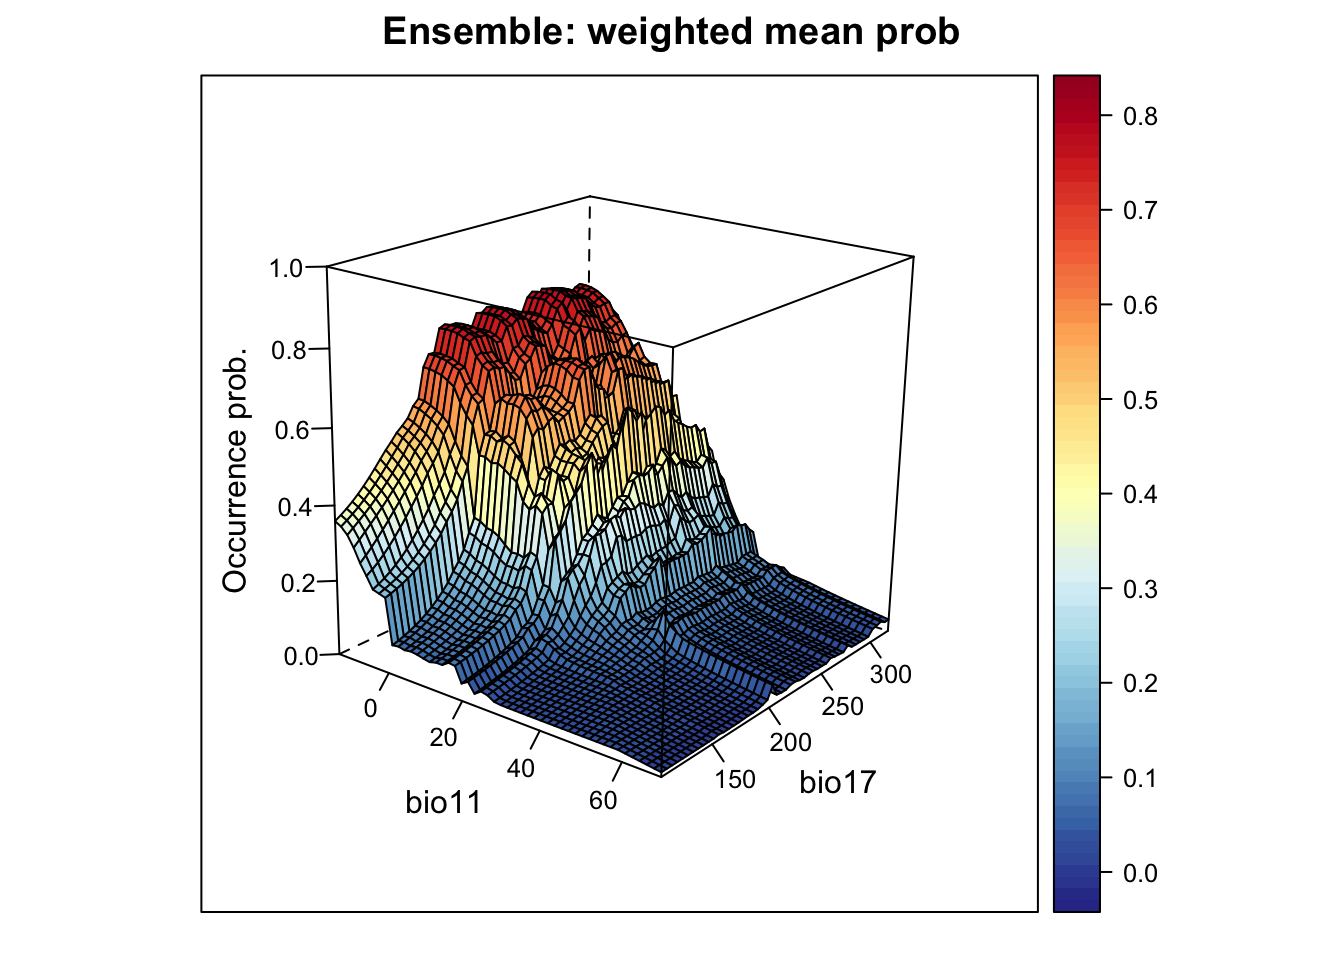
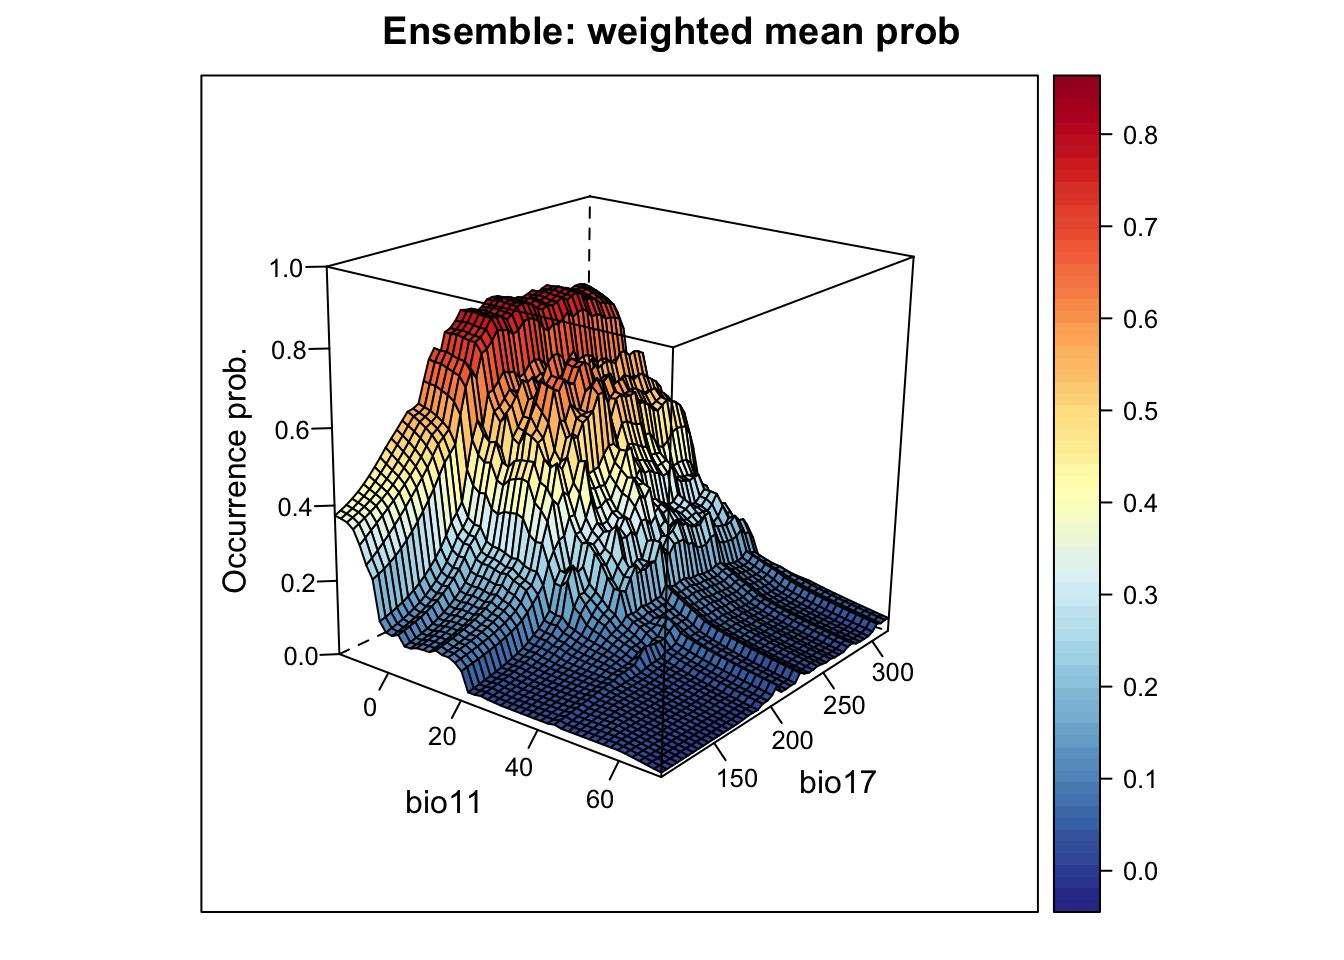
update pray 6

diff --git a/6_SDM_ensembles.html b/6_SDM_ensembles.html
@@ -622,15 +622,14 @@ calc.eval &lt;- function(dat, colname_species, preds, thresh_method=&#39;MaxSens
     require(PresenceAbsence)
     require(dismo)  
     
-    # Helper functions - we had defined them before in &quot;SDM_functions.r&quot;. However,
-    # if we want this code to be independent, we have to insert the functions here again.
-    # True Skill Statistic:
+    # Helper functions.
+    ## True Skill Statistic:
     TSS = function(cmx){
         PresenceAbsence::sensitivity(cmx, st.dev=F) + 
         PresenceAbsence::specificity(cmx, st.dev=F) - 1
         }
     
-    # Explained deviance:
+    ## Explained deviance - the function calc.deviance() is taken from the dismo package:
     d.square &lt;- function(obs, pred, family=&#39;binomial&#39;){
         pred &lt;- ifelse(pred&lt;.00001,.00001,ifelse(pred&gt;.9999,.9999,pred))
       
@@ -645,13 +644,13 @@ calc.eval &lt;- function(dat, colname_species, preds, thresh_method=&#39;MaxSens
         obs = dat[, colname_species],
         pred = preds)
         
-    # Find optimal threshold
+    # Find optimal threshold using the package PresenceAbsence
     thresh &lt;- optimal.thresholds(DATA= thresh_dat)
     
     # Prepare confusion matrix
     cmx_maxSSS &lt;- cmx(DATA= thresh_dat, threshold=thresh[thresh$Method==thresh_method,2])
     
-    # Output data frame with performance statistics and optimal threshold:
+    # Generate output data frame with performance statistics and optimal threshold:
     data.frame(AUC = PresenceAbsence::auc(thresh_dat, st.dev=F),
         TSS = TSS(cmx_maxSSS), 
         Sens = PresenceAbsence::sensitivity(cmx_maxSSS, st.dev=F),
@@ -671,44 +670,44 @@ train_preds &lt;- sapply(our_models,   FUN=function(m){make.preds(eval(parse(tex
 train_perf &lt;- data.frame(sapply(our_models,     FUN=function(x){calc.eval(sp_thinned, &#39;Turdus_torquatus&#39;, train_preds[,x])}))
 
 summary(train_preds)</code></pre>
-<pre><code>##       m_bc             m_dom             m_glm         
-##  Min.   :0.00000   Min.   :0.08658   Min.   :0.000839  
-##  1st Qu.:0.00000   1st Qu.:0.45914   1st Qu.:0.009624  
-##  Median :0.02667   Median :0.57340   Median :0.042567  
-##  Mean   :0.13493   Mean   :0.57015   Mean   :0.134409  
-##  3rd Qu.:0.18667   3rd Qu.:0.69343   3rd Qu.:0.166708  
-##  Max.   :0.93333   Max.   :0.79918   Max.   :0.934014  
+<pre><code>##       m_bc             m_dom             m_glm          
+##  Min.   :0.00000   Min.   :0.07513   Min.   :0.0005874  
+##  1st Qu.:0.00000   1st Qu.:0.44994   1st Qu.:0.0082396  
+##  Median :0.02703   Median :0.56788   Median :0.0378043  
+##  Mean   :0.13870   Mean   :0.56397   Mean   :0.1302817  
+##  3rd Qu.:0.18919   3rd Qu.:0.68547   3rd Qu.:0.1756485  
+##  Max.   :0.95946   Max.   :0.79613   Max.   :0.9303214  
 ##      m_gam               m_cart             m_rf            m_brt        
-##  Min.   :0.0001229   Min.   :0.01254   Min.   :0.0000   Min.   :0.02521  
-##  1st Qu.:0.0040391   1st Qu.:0.01254   1st Qu.:0.0000   1st Qu.:0.02521  
-##  Median :0.0370343   Median :0.01254   Median :0.0040   Median :0.04276  
-##  Mean   :0.1344086   Mean   :0.13441   Mean   :0.1339   Mean   :0.13462  
-##  3rd Qu.:0.1872089   3rd Qu.:0.23944   3rd Qu.:0.1180   3rd Qu.:0.15411  
-##  Max.   :0.9346471   Max.   :0.90000   Max.   :0.9700   Max.   :0.69334  
+##  Min.   :0.0001673   Min.   :0.01198   Min.   :0.0000   Min.   :0.02433  
+##  1st Qu.:0.0043023   1st Qu.:0.01198   1st Qu.:0.0000   1st Qu.:0.02441  
+##  Median :0.0334211   Median :0.01198   Median :0.0060   Median :0.03718  
+##  Mean   :0.1302817   Mean   :0.13028   Mean   :0.1291   Mean   :0.13019  
+##  3rd Qu.:0.1864933   3rd Qu.:0.22222   3rd Qu.:0.0940   3rd Qu.:0.14672  
+##  Max.   :0.9471463   Max.   :1.00000   Max.   :0.9770   Max.   :0.73167  
 ##     m_maxent        
-##  Min.   :0.0003578  
-##  1st Qu.:0.0096631  
-##  Median :0.0751158  
-##  Mean   :0.1991466  
-##  3rd Qu.:0.3332930  
-##  Max.   :0.9998280</code></pre>
+##  Min.   :0.0004054  
+##  1st Qu.:0.0107353  
+##  Median :0.0710889  
+##  Mean   :0.2048733  
+##  3rd Qu.:0.3566196  
+##  Max.   :0.9999931</code></pre>
 <pre class="r"><code>train_perf</code></pre>
 <pre><code>##             m_bc     m_dom     m_glm     m_gam    m_cart      m_rf
-## AUC    0.8321049 0.7860594 0.8983299 0.9020842 0.8976674         1
-## TSS    0.5853416 0.4807453 0.6635197 0.6800828 0.6954865         1
-## Sens        0.84 0.7333333 0.8933333 0.8933333 0.9066667         1
-## Spec   0.7453416  0.747412 0.7701863 0.7867495 0.7888199         1
-## PCC    0.7580645 0.7455197 0.7867384 0.8010753 0.8046595         1
-## D2     0.1580936 -1.003855 0.3525447 0.3748025 0.3929498 0.8121605
-## thresh      0.09      0.66      0.11      0.13     0.165     0.465
+## AUC    0.8254185 0.7846592 0.8965423 0.8991958 0.8908114         1
+## TSS    0.5746799 0.4530583 0.6618339 0.6672502 0.6800525         1
+## Sens   0.8378378 0.7162162 0.9189189 0.9324324 0.9189189         1
+## Spec   0.7368421 0.7368421  0.742915 0.7348178 0.7611336         1
+## PCC         0.75 0.7341549 0.7658451 0.7605634 0.7816901         1
+## D2     0.1442497 -1.024274 0.3510327 0.3668295 0.3828342 0.8170831
+## thresh      0.09      0.65       0.1       0.1     0.135      0.47
 ##            m_brt  m_maxent
-## AUC    0.9168392 0.9023326
-## TSS    0.7049275 0.6814907
-## Sens   0.8933333 0.8533333
-## Spec   0.8115942 0.8281573
-## PCC    0.8225806 0.8315412
-## D2     0.3772473 0.3214855
-## thresh      0.09      0.31</code></pre>
+## AUC    0.9145558 0.8985392
+## TSS    0.6955903 0.6665937
+## Sens   0.9324324 0.9459459
+## Spec   0.7631579 0.7206478
+## PCC    0.7852113      0.75
+## D2     0.3709422 0.2955842
+## thresh      0.09       0.2</code></pre>
 <p>Second, we assess performance on cross-validated data.</p>
 <pre class="r"><code># Make cross-validated predictions:
 crossval_preds &lt;- sapply(our_models,    FUN=function(m){crossval.preds(eval(parse(text=m)), traindat=sp_thinned, colname_species=&#39;Turdus_torquatus&#39;, colname_pred=my_preds, env_r=bio_curr, colname_coord=c(&#39;EASTING&#39;,&#39;NORTHING&#39;), kfold=5)})
@@ -717,37 +716,37 @@ crossval_preds &lt;- sapply(our_models,    FUN=function(m){crossval.preds(eval(p
 crossval_perf &lt;- data.frame(sapply(our_models, FUN=function(x){calc.eval(sp_thinned,&#39;Turdus_torquatus&#39;,crossval_preds[,x])}))
   
 summary(crossval_preds)</code></pre>
-<pre><code>##       m_bc             m_dom             m_glm              m_gam         
-##  Min.   :0.00000   Min.   :0.08485   Min.   :0.000650   Min.   :0.000093  
-##  1st Qu.:0.00000   1st Qu.:0.44321   1st Qu.:0.009868   1st Qu.:0.003783  
-##  Median :0.03333   Median :0.56705   Median :0.042180   Median :0.035002  
-##  Mean   :0.13280   Mean   :0.56117   Mean   :0.135773   Mean   :0.134861  
-##  3rd Qu.:0.16667   3rd Qu.:0.68575   3rd Qu.:0.172324   3rd Qu.:0.184280  
-##  Max.   :0.93333   Max.   :0.80835   Max.   :0.931675   Max.   :0.937813  
-##      m_cart             m_rf            m_brt            m_maxent        
-##  Min.   :0.00000   Min.   :0.0000   Min.   :0.02394   Min.   :0.0004593  
-##  1st Qu.:0.01190   1st Qu.:0.0000   1st Qu.:0.02715   1st Qu.:0.0114909  
-##  Median :0.01581   Median :0.0050   Median :0.04455   Median :0.0665295  
-##  Mean   :0.13260   Mean   :0.1342   Mean   :0.13373   Mean   :0.1980223  
-##  3rd Qu.:0.20833   3rd Qu.:0.1098   3rd Qu.:0.15768   3rd Qu.:0.3206567  
-##  Max.   :0.88889   Max.   :0.9710   Max.   :0.74891   Max.   :0.9999040</code></pre>
+<pre><code>##       m_bc            m_dom            m_glm               m_gam          
+##  Min.   :0.0000   Min.   :0.0000   Min.   :0.0004107   Min.   :0.0000784  
+##  1st Qu.:0.0000   1st Qu.:0.4436   1st Qu.:0.0086799   1st Qu.:0.0041149  
+##  Median :0.0339   Median :0.5481   Median :0.0366725   Median :0.0341637  
+##  Mean   :0.1364   Mean   :0.5544   Mean   :0.1309250   Mean   :0.1321909  
+##  3rd Qu.:0.2034   3rd Qu.:0.6767   3rd Qu.:0.1656460   3rd Qu.:0.1856440  
+##  Max.   :0.9492   Max.   :0.7994   Max.   :0.9335518   Max.   :0.9346109  
+##      m_cart              m_rf            m_brt            m_maxent        
+##  Min.   :0.000000   Min.   :0.0000   Min.   :0.02313   Min.   :0.0004741  
+##  1st Qu.:0.007752   1st Qu.:0.0000   1st Qu.:0.02520   1st Qu.:0.0122814  
+##  Median :0.017182   Median :0.0050   Median :0.04055   Median :0.0666811  
+##  Mean   :0.131703   Mean   :0.1301   Mean   :0.13004   Mean   :0.2041497  
+##  3rd Qu.:0.181818   3rd Qu.:0.1003   3rd Qu.:0.13956   3rd Qu.:0.3482860  
+##  Max.   :1.000000   Max.   :0.9830   Max.   :0.71797   Max.   :0.9999749</code></pre>
 <pre class="r"><code>crossval_perf</code></pre>
-<pre><code>##               m_bc      m_dom     m_glm     m_gam     m_cart      m_rf
-## AUC      0.8099793  0.7735818 0.8936094 0.8891373  0.7872878         1
-## TSS      0.5204969  0.4464596 0.6655901 0.6469565  0.6113458         1
-## Sens           0.8  0.7466667 0.8933333 0.8933333  0.8266667         1
-## Spec     0.7204969   0.699793 0.7722567 0.7536232  0.7846791         1
-## PCC      0.7311828  0.7060932 0.7885305 0.7724014  0.7903226         1
-## D2     -0.02810185 -0.9713565 0.3406979 0.3407686 0.04824155 0.8123784
-## thresh        0.08       0.63      0.11      0.11      0.135     0.465
+<pre><code>##               m_bc      m_dom     m_glm     m_gam      m_cart      m_rf
+## AUC      0.8049568  0.7739085 0.8903326 0.8877065   0.7907867         1
+## TSS      0.5275194  0.4665718  0.652369  0.642904   0.5638472         1
+## Sens     0.8918919  0.7297297 0.9054054 0.8918919   0.8108108         1
+## Spec     0.6356275  0.7368421 0.7469636 0.7510121   0.7530364         1
+## PCC      0.6690141  0.7359155 0.7676056 0.7693662   0.7605634         1
+## D2     -0.03222269 -0.9848168 0.3359779 0.3349827 -0.03884359 0.8165777
+## thresh        0.05       0.64       0.1      0.11       0.085     0.475
 ##            m_brt  m_maxent
-## AUC    0.8729055 0.8915114
-## TSS    0.6267495 0.6720497
-## Sens        0.84 0.8666667
-## Spec   0.7867495  0.805383
-## PCC    0.7939068 0.8136201
-## D2      0.280715 0.2857033
-## thresh      0.09      0.27</code></pre>
+## AUC    0.8571233 0.8913174
+## TSS    0.5773608 0.6557063
+## Sens   0.8243243 0.8783784
+## Spec   0.7530364 0.7773279
+## PCC    0.7623239  0.790493
+## D2     0.2441781 0.2707282
+## thresh       0.1      0.26</code></pre>
 </div>
 </div>
 <div id="making-ensembles" class="section level1">
@@ -793,29 +792,29 @@ ensemble_preds &lt;- make.ensemble(crossval_preds, unlist(crossval_perf[&#39;TSS
 ensemble_perf &lt;- sapply(names(ensemble_preds)[1:4], FUN=function(x){calc.eval(sp_thinned, &#39;Turdus_torquatus&#39;, ensemble_preds[,x])})
 
 summary(ensemble_preds)</code></pre>
-<pre><code>##    mean_prob        median_prob         wmean_prob       committee_av   
-##  Min.   :0.01739   Min.   :0.000694   Min.   :0.01389   Min.   :0.0000  
-##  1st Qu.:0.06592   1st Qu.:0.010388   1st Qu.:0.04886   1st Qu.:0.0000  
-##  Median :0.10754   Median :0.041320   Median :0.08568   Median :0.0000  
-##  Mean   :0.19539   Mean   :0.147002   Mean   :0.17909   Mean   :0.2968  
-##  3rd Qu.:0.28837   3rd Qu.:0.220147   3rd Qu.:0.27721   3rd Qu.:0.7500  
-##  Max.   :0.71810   Max.   :0.814678   Max.   :0.75988   Max.   :1.0000  
-##     sd_prob       
-##  Min.   :0.02949  
-##  1st Qu.:0.15171  
-##  Median :0.18723  
-##  Mean   :0.18177  
-##  3rd Qu.:0.20845  
-##  Max.   :0.34161</code></pre>
+<pre><code>##    mean_prob         median_prob          wmean_prob      
+##  Min.   :0.006933   Min.   :0.0005059   Min.   :0.006445  
+##  1st Qu.:0.064326   1st Qu.:0.0085644   1st Qu.:0.049312  
+##  Median :0.102086   Median :0.0366367   Median :0.083357  
+##  Mean   :0.193739   Mean   :0.1442361   Mean   :0.179763  
+##  3rd Qu.:0.286279   3rd Qu.:0.2100920   3rd Qu.:0.270436  
+##  Max.   :0.764860   Max.   :0.9169550   Max.   :0.802390  
+##   committee_av       sd_prob        
+##  Min.   :0.0000   Min.   :0.009632  
+##  1st Qu.:0.0000   1st Qu.:0.150434  
+##  Median :0.0000   Median :0.181295  
+##  Mean   :0.3136   Mean   :0.180454  
+##  3rd Qu.:0.8750   3rd Qu.:0.208804  
+##  Max.   :1.0000   Max.   :0.338490</code></pre>
 <pre class="r"><code>ensemble_perf</code></pre>
 <pre><code>##        mean_prob median_prob wmean_prob committee_av
-## AUC    0.9294962 0.9066943   0.9464458  0.9335542   
-## TSS    0.7396273 0.6913458   0.7840166  0.6752795   
-## Sens   0.9466667 0.9066667   0.96       0.8533333   
-## Spec   0.7929607 0.7846791   0.8240166  0.8219462   
-## PCC    0.8136201 0.8010753   0.8422939  0.8261649   
-## D2     0.3283978 0.3795954   0.4002493  -0.007735784
-## thresh 0.21      0.14        0.21       0.685</code></pre>
+## AUC    0.9261134 0.9038735   0.9456997  0.928589    
+## TSS    0.7178028 0.677317    0.7663858  0.6726119   
+## Sens   0.8918919 0.8918919   0.8918919  0.9054054   
+## Spec   0.8259109 0.7854251   0.8744939  0.7672065   
+## PCC    0.834507  0.7992958   0.8767606  0.7852113   
+## D2     0.3179446 0.3719992   0.3892453  -0.1536159  
+## thresh 0.27      0.15        0.29       0.56</code></pre>
 <div id="visualising-response-surfaces" class="section level2">
 <h2><span class="header-section-number">4.1</span> Visualising response surfaces</h2>
 <p>Let’s plot the response surfaces for the ensembles.</p>
